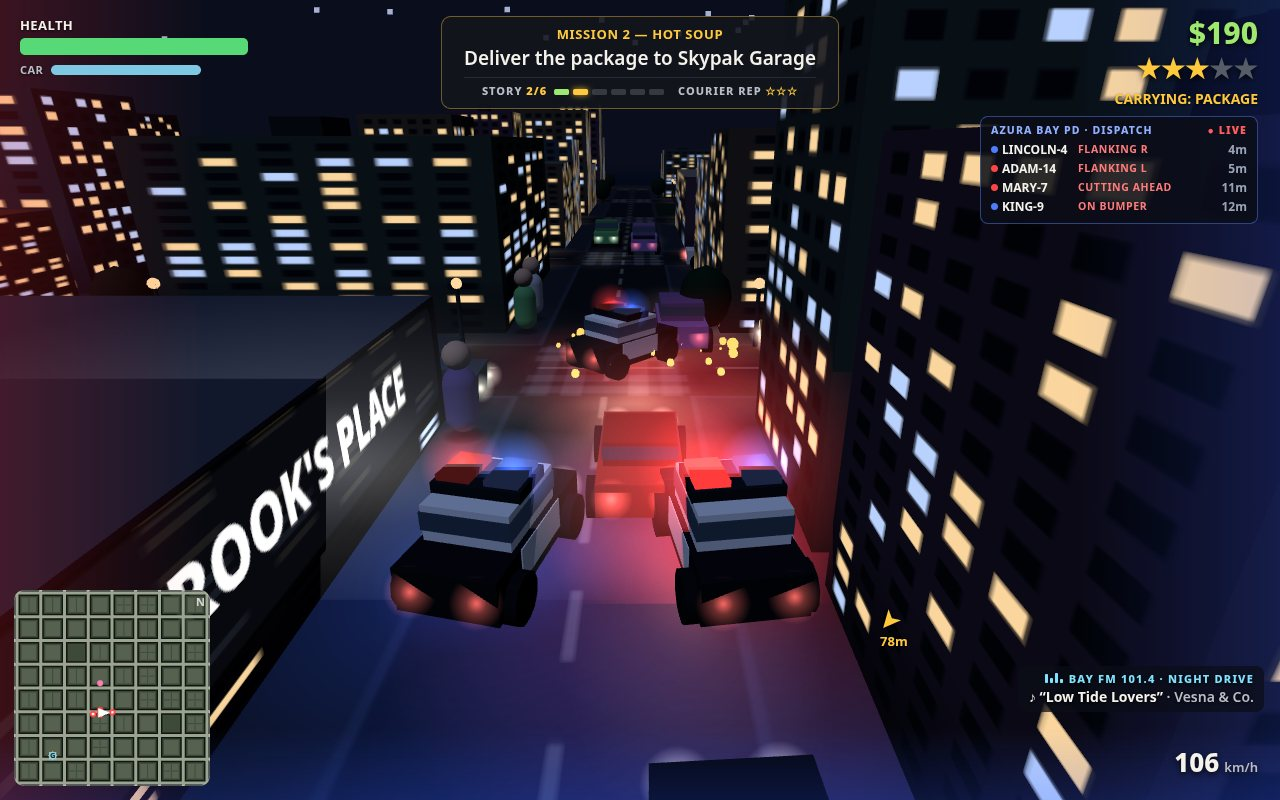
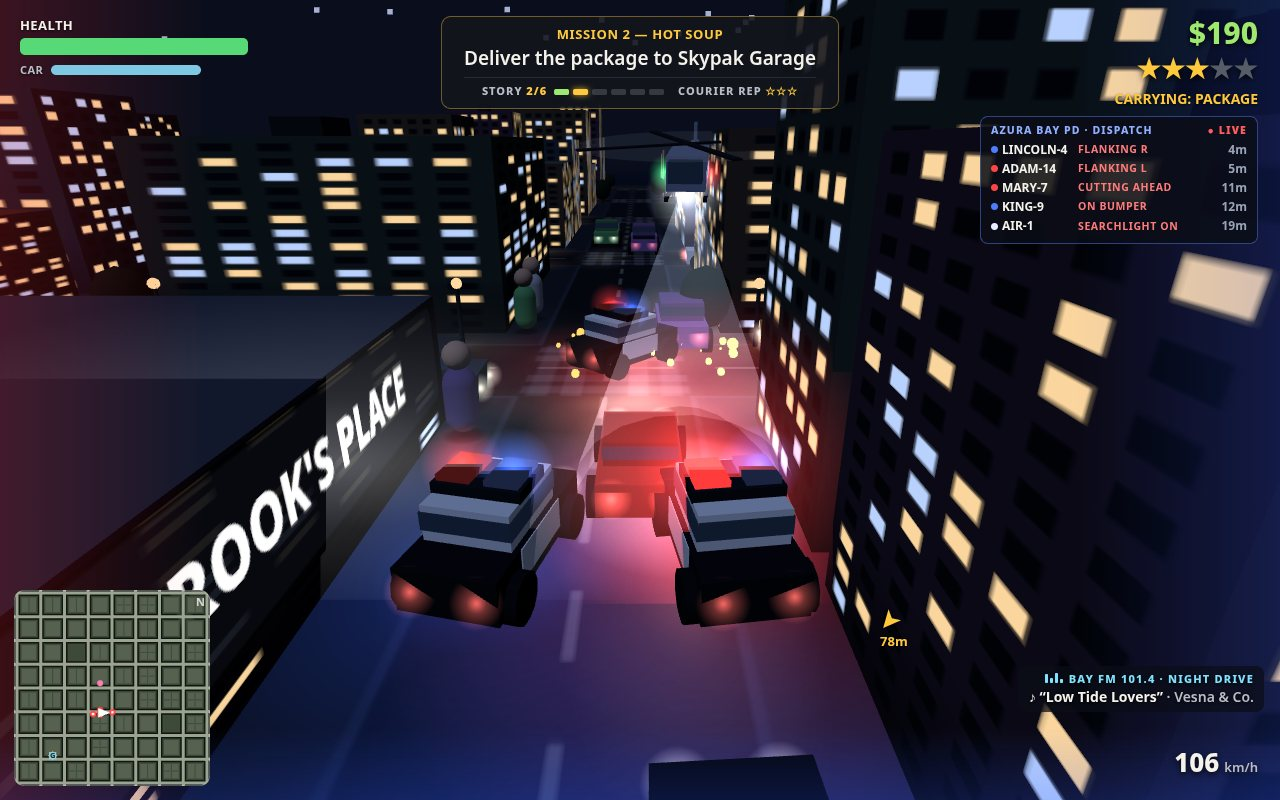
Round 7.5: AIR-1 police helicopter with searchlight at 3+ stars
Presentation only: air.js derives the heli's pose from state.time and the
player (hangs ahead over the street, weaving), render3d draws fuselage, boom,
skids, spinning rotor, nav/strobe lights and an additive searchlight cone with
a pool of light on the player's car; the dispatch panel lists AIR-1.

Changed region(s): [[0.4375, 0.1562, 0.625, 0.7188], [0.8438, 0.25, 1.0, 0.3125], [0.7812, 0.2812, 0.8125, 0.3125]]

diff --git a/game/src/render3d.js b/game/src/render3d.js
@@ -13,6 +13,7 @@ import { CITY, GARAGE, PALETTE } from './config.js';
 import { hash2 } from './geom.js';
 import { blockRect, streetCenterX, streetCenterY } from './city.js';
 import { SCREEN_TITLE } from './screens.js';
+import { airUnit } from './air.js';
 
 const SKY = 0x0a0e1c;
 const FOG_COLOR = 0x0a0e1c;
@@ -625,6 +626,85 @@ export function createRenderer(canvas, city) {
   miloLabel.position.y = 40;
   scene.add(miloMesh);
 
+  // AIR-1 (see air.js): fuselage, boom, skids, a spinning rotor over a faint blur
+  // disc, nav lights, and a searchlight cone ending in a pool of light on the street.
+  const heli = new THREE.Group();
+  const heliBody = new THREE.MeshLambertMaterial({ color: 0x34405e, emissive: 0x262f48 });
+  const heliStripe = new THREE.MeshLambertMaterial({ color: 0xe9edf2, emissive: 0x6a7080 });
+  const heliBox = (w, h, d, mat, x, y, z) => {
+    const m = new THREE.Mesh(new THREE.BoxGeometry(w, h, d), mat);
+    m.position.set(x, y, z);
+    heli.add(m);
+    return m;
+  };
+  heliBox(30, 12, 14, heliBody, 0, 0, 0);
+  heliBox(30.4, 3, 14.4, heliStripe, -1, -1.5, 0);
+  heliBox(9, 7.5, 12, glassMat, 15, 1.2, 0);
+  heliBox(34, 3.2, 3.2, heliBody, -30, 2.5, 0);
+  heliBox(6, 9, 1.2, heliBody, -46, 6.5, 0);
+  heliBox(28, 1.2, 1.4, trimMat, 1, -9, -7);
+  heliBox(28, 1.2, 1.4, trimMat, 1, -9, 7);
+  const rotor = new THREE.Group();
+  const bladeGeo = new THREE.BoxGeometry(84, 0.6, 3.4);
+  rotor.add(new THREE.Mesh(bladeGeo, trimMat), new THREE.Mesh(bladeGeo, trimMat));
+  rotor.children[1].rotation.y = Math.PI / 2;
+  rotor.position.set(0, 8.2, 0);
+  const blurDisc = new THREE.Mesh(new THREE.CircleGeometry(42, 28), new THREE.MeshBasicMaterial({
+    color: 0x9aa6c0, transparent: true, opacity: 0.1, depthWrite: false, side: THREE.DoubleSide,
+  }));
+  blurDisc.rotation.x = -Math.PI / 2;
+  blurDisc.position.y = 8;
+  heli.add(rotor, blurDisc);
+  const navRed = new THREE.Sprite(new THREE.SpriteMaterial(additive(0xff3030, 1)));
+  navRed.position.set(0, -2, -8);
+  const navGreen = new THREE.Sprite(new THREE.SpriteMaterial(additive(0x30ff70, 1)));
+  navGreen.position.set(0, -2, 8);
+  const strobe = new THREE.Sprite(new THREE.SpriteMaterial(additive(0xffffff, 1)));
+  strobe.position.set(-46, 11, 0);
+  const lamp = new THREE.Sprite(new THREE.SpriteMaterial(additive(0xeef4ff, 1)));
+  lamp.position.set(10, -8, 0);
+  lamp.scale.setScalar(30);
+  heli.add(navRed, navGreen, strobe, lamp);
+  heli.scale.setScalar(1.35);
+  heli.visible = false;
+  scene.add(heli);
+  const airBeamGeo = new THREE.CylinderGeometry(2.5, 30, 1, 20, 1, true);
+  airBeamGeo.translate(0, -0.5, 0); // apex at the origin, hanging down one unit
+  const airBeam = new THREE.Mesh(airBeamGeo, new THREE.MeshBasicMaterial({
+    color: 0xcfe0ff, transparent: true, opacity: 0.13, depthWrite: false, blending: THREE.AdditiveBlending, side: THREE.DoubleSide,
+  }));
+  airBeam.renderOrder = 5;
+  const airSpotGeo = new THREE.PlaneGeometry(1, 1);
+  airSpotGeo.rotateX(-Math.PI / 2);
+  const airSpot = new THREE.Mesh(airSpotGeo, new THREE.MeshBasicMaterial(additive(0xdfeaff, 0.75)));
+  airSpot.renderOrder = 3;
+  airBeam.visible = false;
+  airSpot.visible = false;
+  scene.add(airBeam, airSpot);
+  const airBeamDir = new THREE.Vector3();
+  const DOWN = new THREE.Vector3(0, -1, 0);
+
+  function syncAir(state, time) {
+    const air = state.attract ? null : airUnit(state);
+    heli.visible = airBeam.visible = airSpot.visible = Boolean(air);
+    if (!air) return;
+    heli.position.set(air.x, air.alt, air.y);
+    heli.rotation.set(0, -air.angle, 0);
+    heli.rotateZ(-0.12); // nose down, the way a pursuing heli hangs
+    rotor.rotation.y = air.rotor;
+    navRed.scale.setScalar(Math.floor(time * 2) % 2 === 0 ? 14 : 5);
+    navGreen.scale.setScalar(Math.floor(time * 2) % 2 === 0 ? 14 : 5);
+    strobe.scale.setScalar(Math.floor(time * 6) % 6 === 0 ? 26 : 0.01);
+    // The cone hangs from the heli's belly to the pool of light on the street.
+    airBeam.position.set(air.x, air.alt - 9, air.y);
+    airBeamDir.set(air.lightX - air.x, -(air.alt - 9), air.lightY - air.y);
+    const len = airBeamDir.length();
+    airBeam.quaternion.setFromUnitVectors(DOWN, airBeamDir.normalize());
+    airBeam.scale.set(1, len, 1);
+    airSpot.position.set(air.lightX, 0.3, air.lightY);
+    airSpot.scale.set(76, 1, 76);
+  }
+
   // Bullets and particles, instanced from the simulation's own pools.
   const bulletMesh = new THREE.InstancedMesh(
     new THREE.BoxGeometry(17, 1.7, 1.7),
@@ -1026,6 +1106,7 @@ export function createRenderer(canvas, city) {
     syncCars(state, state.time);
     syncPeople(state, ui, state.time);
     syncEffects(state, ui, state.time);
+    syncAir(state, state.time);
     placeCamera(world, ui, dt);
     renderer.render(scene, camera);
   }

diff --git a/game/src/air.js b/game/src/air.js
@@ -1,0 +1,30 @@
+// AIR-1, the police helicopter: presentation only. At three stars and up it hangs
+// ahead of the player, weaving on a slow figure from state.time, with its searchlight
+// on the player's car. Nothing in the simulation knows it exists; the renderer, the
+// dispatch panel and the radar all read the same pose from here.
+
+const ALTITUDE = 78;
+
+/** {x, y, alt, angle, lightX, lightY, rotor} or null below three stars. */
+export function airUnit(state) {
+  if (state.wanted.stars < 3) return null;
+  const player = state.player;
+  const heading = player.inCar && player.car ? player.car.angle : player.angle;
+  const fx = Math.cos(heading);
+  const fy = Math.sin(heading);
+  const t = state.time;
+  const ahead = 155 + Math.cos(t * 0.4) * 30;
+  const side = 22 + Math.sin(t * 0.4) * 26;
+  const x = player.x + fx * ahead - fy * side;
+  const y = player.y + fy * ahead + fx * side;
+  // The light trails the car a little and never sits perfectly still.
+  const lightX = player.x + Math.sin(t * 1.3) * 12 - fx * 8;
+  const lightY = player.y + Math.cos(t * 1.1) * 12 - fy * 8;
+  return {
+    x, y, alt: ALTITUDE,
+    angle: Math.atan2(player.y - y, player.x - x),
+    lightX, lightY,
+    rotor: t * 31,
+    d: Math.hypot(x - player.x, y - player.y),
+  };
+}

diff --git a/game/src/hud.js b/game/src/hud.js
@@ -5,6 +5,7 @@
 // stayed familiar on purpose.
 import { CALLSIGNS, CAR, CITY, PALETTE, PLAYER, RADIO } from './config.js';
 import { angleDiff, clamp } from './geom.js';
+import { airUnit } from './air.js';
 
 const MINIMAP_SIZE = 196;
 
@@ -367,7 +368,8 @@ export function createHud() {
       const red = Math.floor(state.time * 3.75 + u.n) % 2 === 0;
       return row(red ? PALETTE.lightRed : PALETTE.lightBlue, u.call, u.role[0], u.role[1], `${Math.round(u.d / 10)}m`);
     });
-    if (ui.air) rows.push(row('#e8f0ff', 'AIR-1', 'SEARCHLIGHT ON', true, `${Math.round(ui.air.d / 10)}m`));
+    const air = airUnit(state);
+    if (air) rows.push(row(Math.floor(state.time * 6) % 2 ? '#e8f0ff' : '#7f8aa0', 'AIR-1', 'SEARCHLIGHT ON', true, `${Math.round(air.d / 10)}m`));
     if (rows.length === 0) rows.push(row('transparent', 'ALL UNITS', 'BOLO · SEARCHING', false, ''));
     dispatchRows.innerHTML = rows.join('');
     dispatch.style.display = 'block';

diff --git a/game/src/main.js b/game/src/main.js
@@ -106,7 +106,6 @@ function runShot(name) {
     fine: 0,
     story: scene.screen === SCREEN_TITLE ? null : storyFor(missions),
     dialogue: scene.screen === SCREEN_TITLE ? null : scene.dialogue ?? null,
-    air: scene.air ?? null,
   };
   let painted = 0;
   function paint() {
@@ -279,7 +278,6 @@ function runGame() {
       fine,
       story: screen === SCREEN_TITLE ? null : storyFor(missions),
       dialogue,
-      air: null,
     };
   }
 
